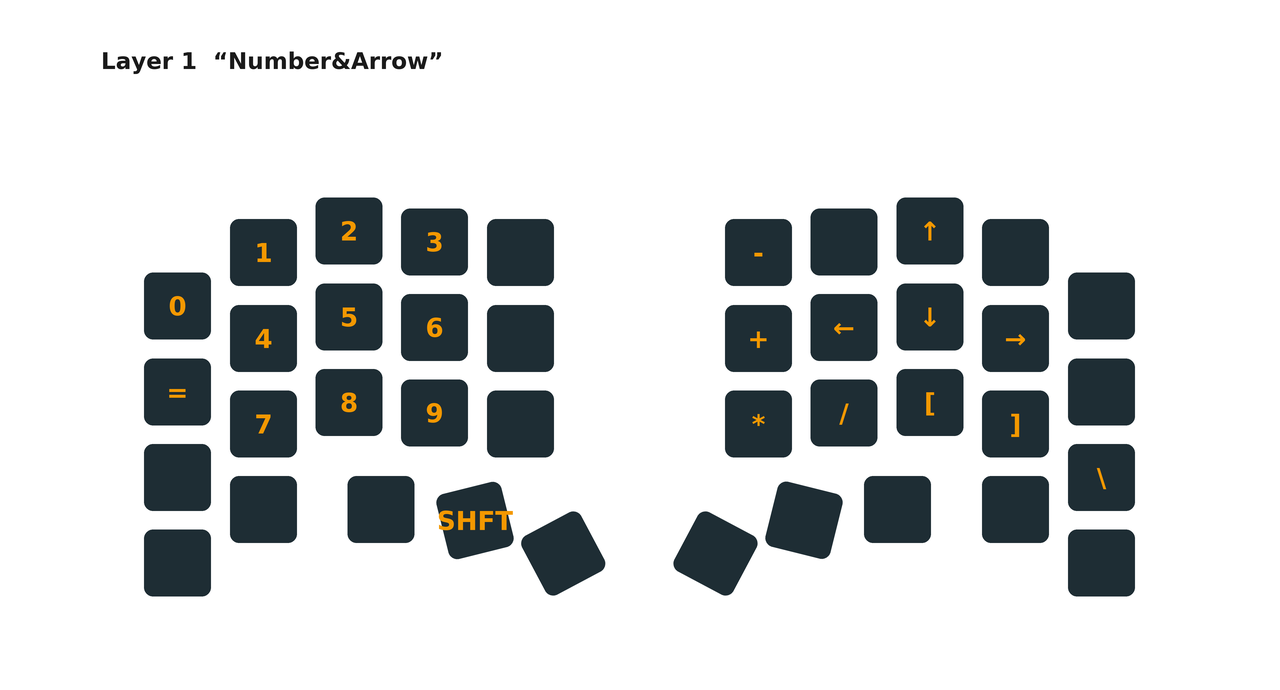
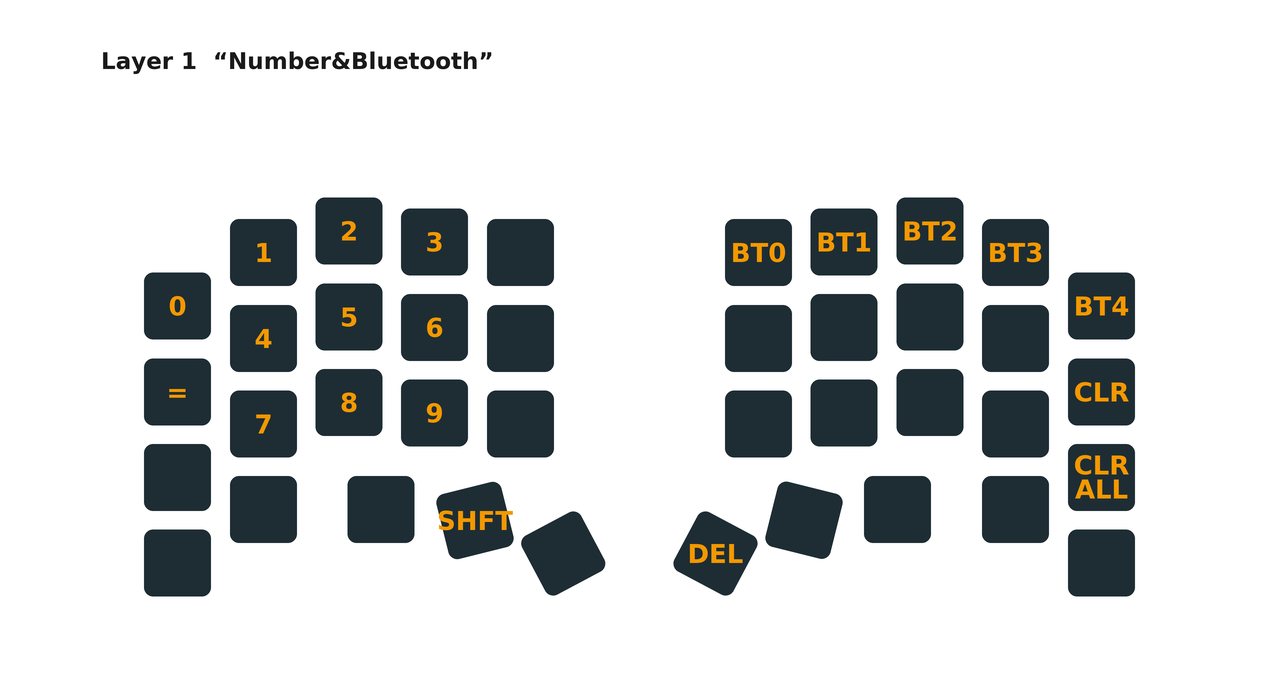
Swap Layer 1/2 right-hand sides: Bluetooth to NUMBER, arrows to SYMBOL

diff --git a/scripts/generate_keymap_images.py b/scripts/generate_keymap_images.py
@@ -94,8 +94,8 @@ MOD_SUBLABELS = {"LALT": "Option", "RALT": "Option", "LCTRL": "Ctrl",
 # 辞書にないノードはキーマップの label プロパティを使う
 LAYER_TITLES = {
     "default_layer": None,
-    "layer1": "Number&Arrow",
-    "layer2": "SYMBOL & Bluetooth",
+    "layer1": "Number&Bluetooth",
+    "layer2": "SYMBOL & Arrow",
     "layer3": "AUTO MOUSE",
 }
 

diff --git a/README.md b/README.md
@@ -7,10 +7,10 @@
 Layer 0 QWERTY
 <img width="1280" height="690" alt="Image" src="images/layer0.png" />
 
-Layer 1 NUMBER & ARROW
+Layer 1 NUMBER & Bluetooth
 <img width="1280" height="690" alt="Image" src="images/layer1.png" />
 
-Layer 2 SYMBOL & Bluetooth
+Layer 2 SYMBOL & ARROW
 <img width="1280" height="690" alt="Image" src="images/layer2.png" />
 
 Layer 3 AUTO MOUSE
